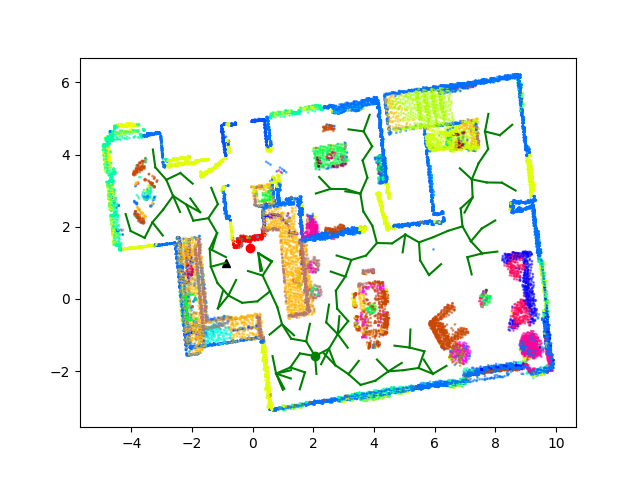
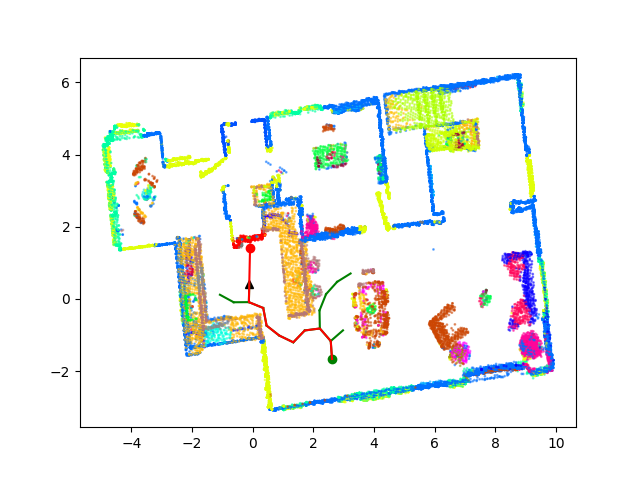
fix goal collision bug

diff --git a/RRT.py b/RRT.py
@@ -5,67 +5,6 @@ import matplotlib.pyplot as plt
 import open3d as o3d
 import csv
 
-# %%
-root_path = "semantic_3d_pointcloud/"
-
-point = np.load(os.path.join(root_path, "point.npy"))
-point = point*10000/255.
-color = np.load(os.path.join(root_path, "color0255.npy"))
-color = color/255.
-pcd = o3d.geometry.PointCloud()
-pcd.points = o3d.utility.Vector3dVector(point)
-pcd.colors = o3d.utility.Vector3dVector(color)
-
-points = np.asarray(pcd.points)
-pcd = pcd.select_by_index(np.where(points[:, 1] < 0)[0])
-points = np.asarray(pcd.points)
-pcd = pcd.select_by_index(np.where(points[:, 1] > -1)[0])
-points = np.asarray(pcd.points)
-colors = np.asarray(pcd.colors)
-int_colors = colors * 255
-# colors *= 255
-# plt.scatter(-points[:, 2], -points[:, 0], s=1, c=colors, alpha=0.5)
-
-# %%
-print("select target categories (refrigerator, rack, cushion, lamp, and cooktop")
-color_dict = {
-    "refrigerator":[255, 0, 0],
-    "rack": [0, 255, 133],
-    "cushion": [255, 9, 92],
-    "lamp": [160, 150, 20],
-    "cooktop": [7, 255, 224]
-    }
-
-offset = {
-    "refrigerator":[-0.25, 0, 0],
-    "rack": [0, 0, -0.3],
-    "cushion": [0, 0, 0],
-    "lamp": [0, 0, 0.5],
-    "cooktop": [0.6, 0, 0]
-}
-target = input()
-target_list = []
-for i in range(len(int_colors)):
-    if np.array_equal(int_colors[i], color_dict[target]):
-        target_list.append(i)
-
-target_point = np.mean(points[target_list], axis=0)
-target_point += offset[target]
-
-# %%
-fig = plt.figure()
-map = fig.add_subplot()
-map.scatter(points[:, 2], points[:, 0], s=1, c=colors, alpha=0.5)
-coords = []
-
-def onclick(event):
-    global coords
-    print(event.xdata, event.ydata)
-    coords.append((event.xdata, event.ydata))
-    fig.canvas.mpl_disconnect(cid)
-
-cid = fig.canvas.mpl_connect('button_press_event', onclick)
-plt.show()
 
 # %%
 # print(coords)
@@ -89,7 +28,7 @@ class Node:
 
 
 class RRT:
-    def __init__(self, obstacle_list, obstacle_color, x_rand_area, y_rand_area, expand_dis=2.0, goal_sample_rate=10, max_iter=500, radius=0.2):
+    def __init__(self, obstacle_list, obstacle_color, x_rand_area, y_rand_area, expand_dis=2.0, goal_sample_rate=10, max_iter=200, radius=0.1):
         self.start = None
         self.end = None
         self.x_min_rand = x_rand_area[0]
@@ -182,7 +121,7 @@ class RRT:
 
     def is_near_goal(self, node):
         d = self.line_cost(node, self.goal)
-        if d < 1.0:
+        if d < 1:
             return True
         return False
 
@@ -244,6 +183,67 @@ class RRT:
     @staticmethod
     def line_cost(node1, node2):
         return math.sqrt((node1.x - node2.x) ** 2 + (node1.y - node2.y) ** 2)
+# %%
+root_path = "semantic_3d_pointcloud/"
+
+point = np.load(os.path.join(root_path, "point.npy"))
+point = point*10000/255.
+color = np.load(os.path.join(root_path, "color0255.npy"))
+color = color/255.
+pcd = o3d.geometry.PointCloud()
+pcd.points = o3d.utility.Vector3dVector(point)
+pcd.colors = o3d.utility.Vector3dVector(color)
+
+points = np.asarray(pcd.points)
+pcd = pcd.select_by_index(np.where(points[:, 1] < 0)[0])
+points = np.asarray(pcd.points)
+pcd = pcd.select_by_index(np.where(points[:, 1] > -1)[0])
+points = np.asarray(pcd.points)
+colors = np.asarray(pcd.colors)
+int_colors = colors * 255
+# colors *= 255
+# plt.scatter(-points[:, 2], -points[:, 0], s=1, c=colors, alpha=0.5)
+
+# %%
+print("select target categories (refrigerator, rack, cushion, lamp, and cooktop")
+color_dict = {
+    "refrigerator":[255, 0, 0],
+    "rack": [0, 255, 133],
+    "cushion": [255, 9, 92],
+    "lamp": [160, 150, 20],
+    "cooktop": [7, 255, 224]
+    }
+
+offset = {
+    "refrigerator":[-0.25, 0, 0],
+    "rack": [0, 0, -0.3],
+    "cushion": [0, 0, 0],
+    "lamp": [0, 0, 0.5],
+    "cooktop": [0.6, 0, 0]
+}
+target = input()
+target_list = []
+for i in range(len(int_colors)):
+    if np.array_equal(int_colors[i], color_dict[target]):
+        target_list.append(i)
+
+target_point = np.mean(points[target_list], axis=0)
+target_point += offset[target]
+
+# %%
+fig = plt.figure()
+map = fig.add_subplot()
+map.scatter(points[:, 2], points[:, 0], s=1, c=colors, alpha=0.5)
+coords = []
+
+def onclick(event):
+    global coords
+    print(event.xdata, event.ydata)
+    coords.append((event.xdata, event.ydata))
+    fig.canvas.mpl_disconnect(cid)
+
+cid = fig.canvas.mpl_connect('button_press_event', onclick)
+plt.show()
 
 # %%
 x_area = (-6, 10)
